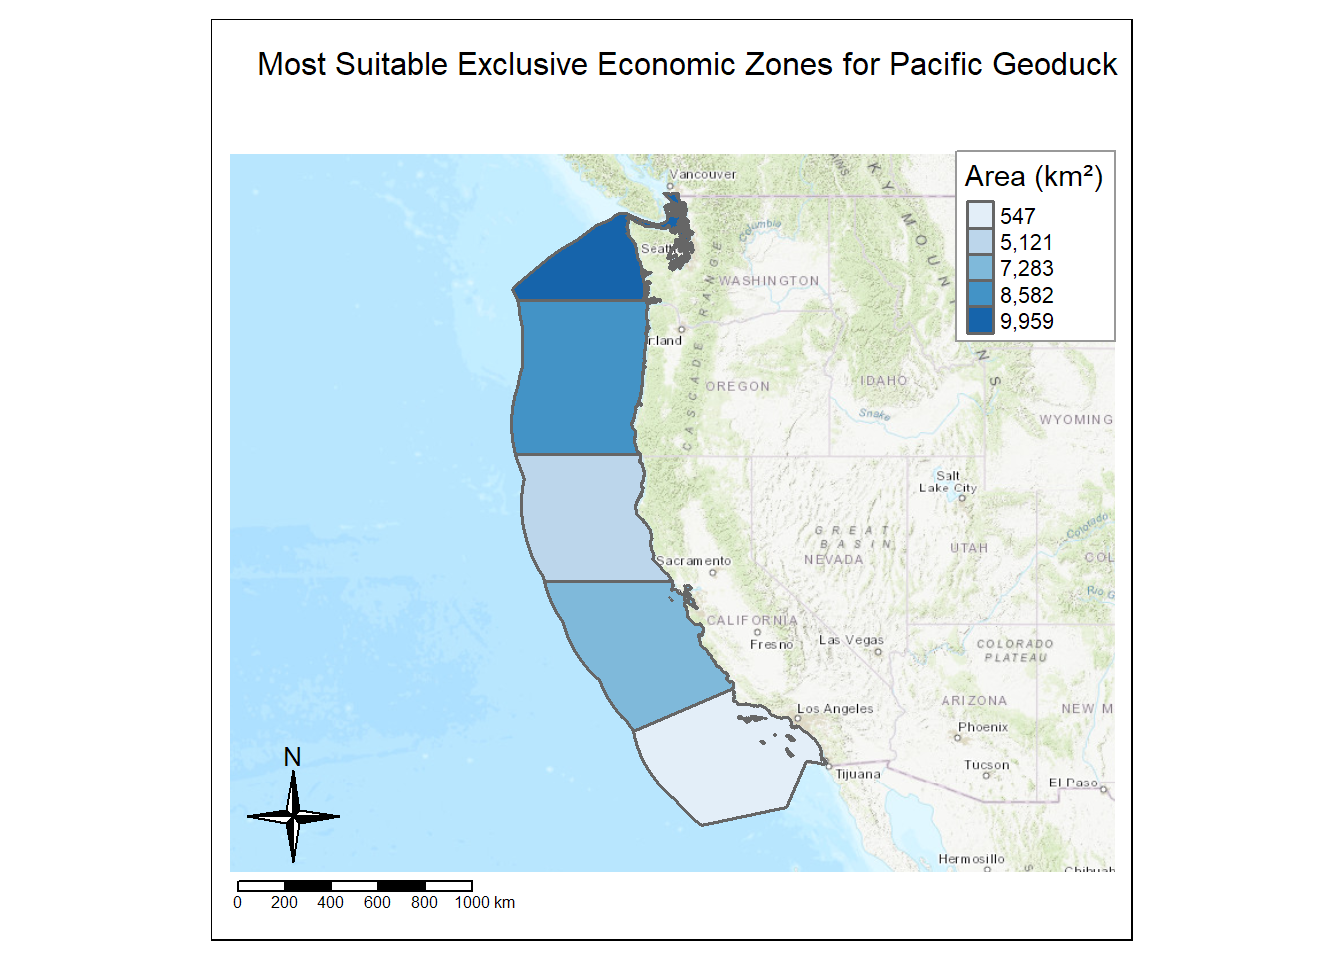
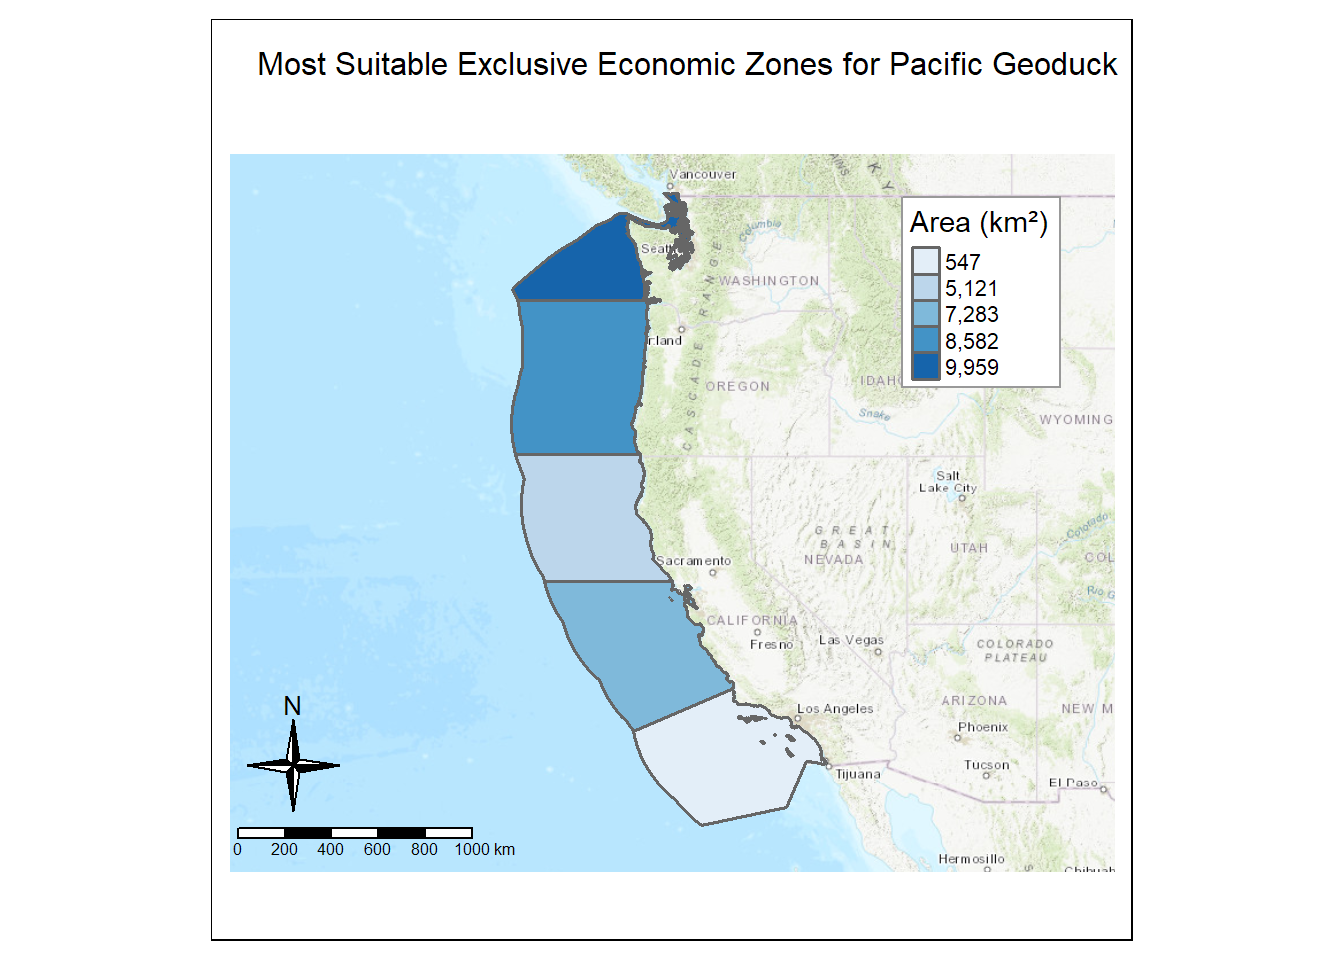
Final edits

Changed region(s): [[0.6562, 0.1562, 0.8438, 0.4062], [0.1562, 0.8438, 0.375, 0.9688], [0.1875, 0.75, 0.25, 0.8125]]

diff --git a/eds223-hw4.html b/eds223-hw4.html
@@ -6,6 +6,8 @@
 
 <meta name="viewport" content="width=device-width, initial-scale=1.0, user-scalable=yes">
 
+<meta name="author" content="Joshua Paul Cohen">
+<meta name="dcterms.date" content="2024-11-28">
 
 <title>eds223_hw4</title>
 <style>
@@ -86,7 +88,19 @@ pre > code.sourceCode > span > a:first-child::before { text-decoration: underlin
 
 <div class="quarto-title-meta">
 
+    <div>
+    <div class="quarto-title-meta-heading">Author</div>
+    <div class="quarto-title-meta-contents">
+             <p>Joshua Paul Cohen </p>
+          </div>
+  </div>
     
+    <div>
+    <div class="quarto-title-meta-heading">Published</div>
+    <div class="quarto-title-meta-contents">
+      <p class="date">November 28, 2024</p>
+    </div>
+  </div>
   
     
   </div>
@@ -122,25 +136,24 @@ pre > code.sourceCode > span > a:first-child::before { text-decoration: underlin
 <span id="cb1-4"><a href="#cb1-4" aria-hidden="true" tabindex="-1"></a><span class="fu">library</span>(stars)</span>
 <span id="cb1-5"><a href="#cb1-5" aria-hidden="true" tabindex="-1"></a><span class="fu">library</span>(terra)</span>
 <span id="cb1-6"><a href="#cb1-6" aria-hidden="true" tabindex="-1"></a><span class="fu">library</span>(testthat)</span>
-<span id="cb1-7"><a href="#cb1-7" aria-hidden="true" tabindex="-1"></a><span class="fu">library</span>(OpenStreetMap)</span>
-<span id="cb1-8"><a href="#cb1-8" aria-hidden="true" tabindex="-1"></a></span>
-<span id="cb1-9"><a href="#cb1-9" aria-hidden="true" tabindex="-1"></a><span class="co"># west coast exclusive economic zones</span></span>
-<span id="cb1-10"><a href="#cb1-10" aria-hidden="true" tabindex="-1"></a>eez <span class="ot">&lt;-</span> <span class="fu">st_read</span>(here<span class="sc">::</span><span class="fu">here</span>(<span class="st">'data'</span>, <span class="st">'wc_regions_clean.shp'</span>), <span class="at">quiet =</span> <span class="cn">TRUE</span>)</span>
-<span id="cb1-11"><a href="#cb1-11" aria-hidden="true" tabindex="-1"></a></span>
-<span id="cb1-12"><a href="#cb1-12" aria-hidden="true" tabindex="-1"></a><span class="co"># general bathymetric chart of the oceans</span></span>
-<span id="cb1-13"><a href="#cb1-13" aria-hidden="true" tabindex="-1"></a>bathy <span class="ot">&lt;-</span> <span class="fu">rast</span>(here<span class="sc">::</span><span class="fu">here</span>(<span class="st">'data'</span>, <span class="st">'depth.tif'</span>))</span>
-<span id="cb1-14"><a href="#cb1-14" aria-hidden="true" tabindex="-1"></a></span>
-<span id="cb1-15"><a href="#cb1-15" aria-hidden="true" tabindex="-1"></a><span class="co"># sea surface temperature rasters from 2008 - 2012</span></span>
-<span id="cb1-16"><a href="#cb1-16" aria-hidden="true" tabindex="-1"></a>sst <span class="ot">&lt;-</span> <span class="fu">c</span>(<span class="fu">rast</span>(here<span class="sc">::</span><span class="fu">here</span>(<span class="st">'data'</span>, <span class="st">'average_annual_sst_2008.tif'</span>)),</span>
-<span id="cb1-17"><a href="#cb1-17" aria-hidden="true" tabindex="-1"></a>                    <span class="fu">rast</span>(here<span class="sc">::</span><span class="fu">here</span>(<span class="st">'data'</span>, <span class="st">'average_annual_sst_2009.tif'</span>)),</span>
-<span id="cb1-18"><a href="#cb1-18" aria-hidden="true" tabindex="-1"></a>                    <span class="fu">rast</span>(here<span class="sc">::</span><span class="fu">here</span>(<span class="st">'data'</span>, <span class="st">'average_annual_sst_2010.tif'</span>)),</span>
-<span id="cb1-19"><a href="#cb1-19" aria-hidden="true" tabindex="-1"></a>                    <span class="fu">rast</span>(here<span class="sc">::</span><span class="fu">here</span>(<span class="st">'data'</span>, <span class="st">'average_annual_sst_2011.tif'</span>)),</span>
-<span id="cb1-20"><a href="#cb1-20" aria-hidden="true" tabindex="-1"></a>                    <span class="fu">rast</span>(here<span class="sc">::</span><span class="fu">here</span>(<span class="st">'data'</span>, <span class="st">'average_annual_sst_2012.tif'</span>)))</span>
-<span id="cb1-21"><a href="#cb1-21" aria-hidden="true" tabindex="-1"></a></span>
-<span id="cb1-22"><a href="#cb1-22" aria-hidden="true" tabindex="-1"></a><span class="co"># transforming all crs to california albers</span></span>
-<span id="cb1-23"><a href="#cb1-23" aria-hidden="true" tabindex="-1"></a>eez <span class="ot">&lt;-</span> <span class="fu">st_transform</span>(eez, <span class="at">crs =</span> <span class="st">'epsg:4326'</span>)</span>
-<span id="cb1-24"><a href="#cb1-24" aria-hidden="true" tabindex="-1"></a><span class="fu">crs</span>(bathy) <span class="ot">&lt;-</span> <span class="st">'epsg:4326'</span></span>
-<span id="cb1-25"><a href="#cb1-25" aria-hidden="true" tabindex="-1"></a><span class="fu">crs</span>(sst) <span class="ot">&lt;-</span> <span class="st">'epsg:4326'</span></span></code><button title="Copy to Clipboard" class="code-copy-button"><i class="bi"></i></button></pre></div>
+<span id="cb1-7"><a href="#cb1-7" aria-hidden="true" tabindex="-1"></a></span>
+<span id="cb1-8"><a href="#cb1-8" aria-hidden="true" tabindex="-1"></a><span class="co"># west coast exclusive economic zones</span></span>
+<span id="cb1-9"><a href="#cb1-9" aria-hidden="true" tabindex="-1"></a>eez <span class="ot">&lt;-</span> <span class="fu">st_read</span>(here<span class="sc">::</span><span class="fu">here</span>(<span class="st">'data'</span>, <span class="st">'wc_regions_clean.shp'</span>), <span class="at">quiet =</span> <span class="cn">TRUE</span>)</span>
+<span id="cb1-10"><a href="#cb1-10" aria-hidden="true" tabindex="-1"></a></span>
+<span id="cb1-11"><a href="#cb1-11" aria-hidden="true" tabindex="-1"></a><span class="co"># general bathymetric chart of the oceans</span></span>
+<span id="cb1-12"><a href="#cb1-12" aria-hidden="true" tabindex="-1"></a>bathy <span class="ot">&lt;-</span> <span class="fu">rast</span>(here<span class="sc">::</span><span class="fu">here</span>(<span class="st">'data'</span>, <span class="st">'depth.tif'</span>))</span>
+<span id="cb1-13"><a href="#cb1-13" aria-hidden="true" tabindex="-1"></a></span>
+<span id="cb1-14"><a href="#cb1-14" aria-hidden="true" tabindex="-1"></a><span class="co"># sea surface temperature rasters from 2008 - 2012</span></span>
+<span id="cb1-15"><a href="#cb1-15" aria-hidden="true" tabindex="-1"></a>sst <span class="ot">&lt;-</span> <span class="fu">c</span>(<span class="fu">rast</span>(here<span class="sc">::</span><span class="fu">here</span>(<span class="st">'data'</span>, <span class="st">'average_annual_sst_2008.tif'</span>)),</span>
+<span id="cb1-16"><a href="#cb1-16" aria-hidden="true" tabindex="-1"></a>                    <span class="fu">rast</span>(here<span class="sc">::</span><span class="fu">here</span>(<span class="st">'data'</span>, <span class="st">'average_annual_sst_2009.tif'</span>)),</span>
+<span id="cb1-17"><a href="#cb1-17" aria-hidden="true" tabindex="-1"></a>                    <span class="fu">rast</span>(here<span class="sc">::</span><span class="fu">here</span>(<span class="st">'data'</span>, <span class="st">'average_annual_sst_2010.tif'</span>)),</span>
+<span id="cb1-18"><a href="#cb1-18" aria-hidden="true" tabindex="-1"></a>                    <span class="fu">rast</span>(here<span class="sc">::</span><span class="fu">here</span>(<span class="st">'data'</span>, <span class="st">'average_annual_sst_2011.tif'</span>)),</span>
+<span id="cb1-19"><a href="#cb1-19" aria-hidden="true" tabindex="-1"></a>                    <span class="fu">rast</span>(here<span class="sc">::</span><span class="fu">here</span>(<span class="st">'data'</span>, <span class="st">'average_annual_sst_2012.tif'</span>)))</span>
+<span id="cb1-20"><a href="#cb1-20" aria-hidden="true" tabindex="-1"></a></span>
+<span id="cb1-21"><a href="#cb1-21" aria-hidden="true" tabindex="-1"></a><span class="co"># transforming all crs to california albers</span></span>
+<span id="cb1-22"><a href="#cb1-22" aria-hidden="true" tabindex="-1"></a>eez <span class="ot">&lt;-</span> <span class="fu">st_transform</span>(eez, <span class="at">crs =</span> <span class="st">'epsg:4326'</span>)</span>
+<span id="cb1-23"><a href="#cb1-23" aria-hidden="true" tabindex="-1"></a><span class="fu">crs</span>(bathy) <span class="ot">&lt;-</span> <span class="st">'epsg:4326'</span></span>
+<span id="cb1-24"><a href="#cb1-24" aria-hidden="true" tabindex="-1"></a><span class="fu">crs</span>(sst) <span class="ot">&lt;-</span> <span class="st">'epsg:4326'</span></span></code><button title="Copy to Clipboard" class="code-copy-button"><i class="bi"></i></button></pre></div>
 </details>
 </div>
 <p><br></p>
@@ -442,13 +455,13 @@ pre > code.sourceCode > span > a:first-child::before { text-decoration: underlin
 <span id="cb26-17"><a href="#cb26-17" aria-hidden="true" tabindex="-1"></a>  <span class="fu">tm_layout</span>(<span class="at">title =</span> <span class="fu">paste</span>(<span class="st">'Most Suitable Exclusive Economic Zones for'</span>, species), </span>
 <span id="cb26-18"><a href="#cb26-18" aria-hidden="true" tabindex="-1"></a>            <span class="at">asp =</span> <span class="dv">1</span>, </span>
 <span id="cb26-19"><a href="#cb26-19" aria-hidden="true" tabindex="-1"></a>            <span class="at">inner.margins =</span> <span class="fu">c</span>(<span class="fl">0.02</span>,<span class="fl">0.02</span>,<span class="fl">0.1</span>,<span class="fl">0.02</span>), </span>
-<span id="cb26-20"><a href="#cb26-20" aria-hidden="true" tabindex="-1"></a>            <span class="at">legend.position =</span> <span class="fu">c</span>(<span class="st">'right'</span>, <span class="fl">0.65</span>), </span>
+<span id="cb26-20"><a href="#cb26-20" aria-hidden="true" tabindex="-1"></a>            <span class="at">legend.position =</span> <span class="fu">c</span>(<span class="fl">0.75</span>, <span class="fl">0.6</span>), </span>
 <span id="cb26-21"><a href="#cb26-21" aria-hidden="true" tabindex="-1"></a>            <span class="at">legend.frame =</span> <span class="st">'grey60'</span>,</span>
 <span id="cb26-22"><a href="#cb26-22" aria-hidden="true" tabindex="-1"></a>            <span class="at">title.position =</span> <span class="fu">c</span>(<span class="fl">0.05</span>, <span class="st">'top'</span>)) <span class="sc">+</span> </span>
 <span id="cb26-23"><a href="#cb26-23" aria-hidden="true" tabindex="-1"></a>  <span class="fu">tm_compass</span>(<span class="at">size =</span> <span class="dv">3</span>, </span>
 <span id="cb26-24"><a href="#cb26-24" aria-hidden="true" tabindex="-1"></a>             <span class="at">type =</span> <span class="st">'4star'</span>,</span>
-<span id="cb26-25"><a href="#cb26-25" aria-hidden="true" tabindex="-1"></a>             <span class="at">position =</span> <span class="fu">c</span>(<span class="st">'left'</span>, <span class="st">'bottom'</span>)) <span class="sc">+</span> </span>
-<span id="cb26-26"><a href="#cb26-26" aria-hidden="true" tabindex="-1"></a>  <span class="fu">tm_scale_bar</span>(<span class="at">position =</span> <span class="fu">c</span>(<span class="st">'left'</span>, <span class="st">'bottom'</span>))</span>
+<span id="cb26-25"><a href="#cb26-25" aria-hidden="true" tabindex="-1"></a>             <span class="at">position =</span> <span class="fu">c</span>(<span class="st">'left'</span>, <span class="fl">0.14</span>)) <span class="sc">+</span> </span>
+<span id="cb26-26"><a href="#cb26-26" aria-hidden="true" tabindex="-1"></a>  <span class="fu">tm_scale_bar</span>(<span class="at">position =</span> <span class="fu">c</span>(<span class="st">'left'</span>, <span class="fl">0.08</span>))</span>
 <span id="cb26-27"><a href="#cb26-27" aria-hidden="true" tabindex="-1"></a></span>
 <span id="cb26-28"><a href="#cb26-28" aria-hidden="true" tabindex="-1"></a><span class="er">}</span></span></code><button title="Copy to Clipboard" class="code-copy-button"><i class="bi"></i></button></pre></div>
 </div>
@@ -471,6 +484,7 @@ pre > code.sourceCode > span > a:first-child::before { text-decoration: underlin
 </div>
 </div>
 </div>
+<p><em>Figure 1: Oysters have the most Pacific habitat along the south of the United States, when accounting for water depth and temperature alone. However, the north also has habitat present, with only Northern California being habitat poor.</em></p>
 </section>
 <section id="pacific-geoduck-panopea-generosa-parameters" class="level5">
 <h5 class="anchored" data-anchor-id="pacific-geoduck-panopea-generosa-parameters">Pacific Geoduck (<em>Panopea generosa</em>) Parameters:</h5>
@@ -488,11 +502,48 @@ pre > code.sourceCode > span > a:first-child::before { text-decoration: underlin
 </div>
 </div>
 </div>
+<p><em>Figure 2: Pacific Geoduck has the most suitable habitat in the northern sections of the Pacific coast, when accounting for water depth and temperature alone. However, Northern and Central California are also abundant in habitat, with only Southern CA poor habitat overall.</em></p>
 </section>
 </section>
 </section>
-<section id="citations" class="level2">
-<h2 class="anchored" data-anchor-id="citations">Citations</h2>
+<section id="data-citations" class="level2">
+<h2 class="anchored" data-anchor-id="data-citations">Data Citations</h2>
+<table class="caption-top table">
+<thead>
+<tr class="header">
+<th>Data</th>
+<th>Citation</th>
+<th>Link</th>
+</tr>
+</thead>
+<tbody>
+<tr class="odd">
+<td>OpenStreetMap from Geofabrik</td>
+<td>Fellows I, Stotz utJlbJP (2023). <em>OpenStreetMap: Access to Open Street Map Raster Images</em>. R package version 0.4.0, https://CRAN.R-project.org/package=OpenStreetMap</td>
+<td><a href="https://www.openstreetmap.org">Link</a></td>
+</tr>
+<tr class="even">
+<td>Pacific Geoduck page on SeaLifeBase</td>
+<td>Pacific Northwest Shell Club 2014 Pacific Northwest marine molluscan biodiversity. Pacific Northwest Shell Club, www.PNWCS.org. http://www.bily.com/pnwsc/web-content/Northwest%20Marine%20Molluscan%20Biodiversity.html [Accessed 06/02/2014].</td>
+<td><a href="https://www.sealifebase.ca/summary/Panopea-generosa.html">Link</a></td>
+</tr>
+<tr class="odd">
+<td>NOAA’s 5km Daily Global Satellite Sea Surface Temperature Anomaly v3.1.</td>
+<td>NOAA Coral Reef Watch. 2018. Daily Global 5km Satellite Sea Surface Temperature Anomaly. Version 3.1, released August 1, 2018.</td>
+<td><a href="https://coralreefwatch.noaa.gov/product/5km/index_5km_ssta.php">Link</a></td>
+</tr>
+<tr class="even">
+<td>GEBCO California Bathymetry Data</td>
+<td>GEBCO Compilation Group (2024) GEBCO 2024 Grid (doi:10.5285/1c44ce99-0a0d-5f4f-e063-7086abc0ea0f)</td>
+<td><a href="https://www.gebco.net/data_and_products/gridded_bathymetry_data/#area">Link</a></td>
+</tr>
+<tr class="odd">
+<td>Exclusive Economic Zone Boundaries</td>
+<td>Flanders Marine Institute (2024). Union of the ESRI Country shapefile and the Exclusive Economic Zones (version 4). Available online at https://www.marineregions.org/. https://doi.org/10.14284/698. Consulted in 2024.</td>
+<td><a href="https://www.marineregions.org/eez.php">Link</a></td>
+</tr>
+</tbody>
+</table>
 </section>
 
 </main>
